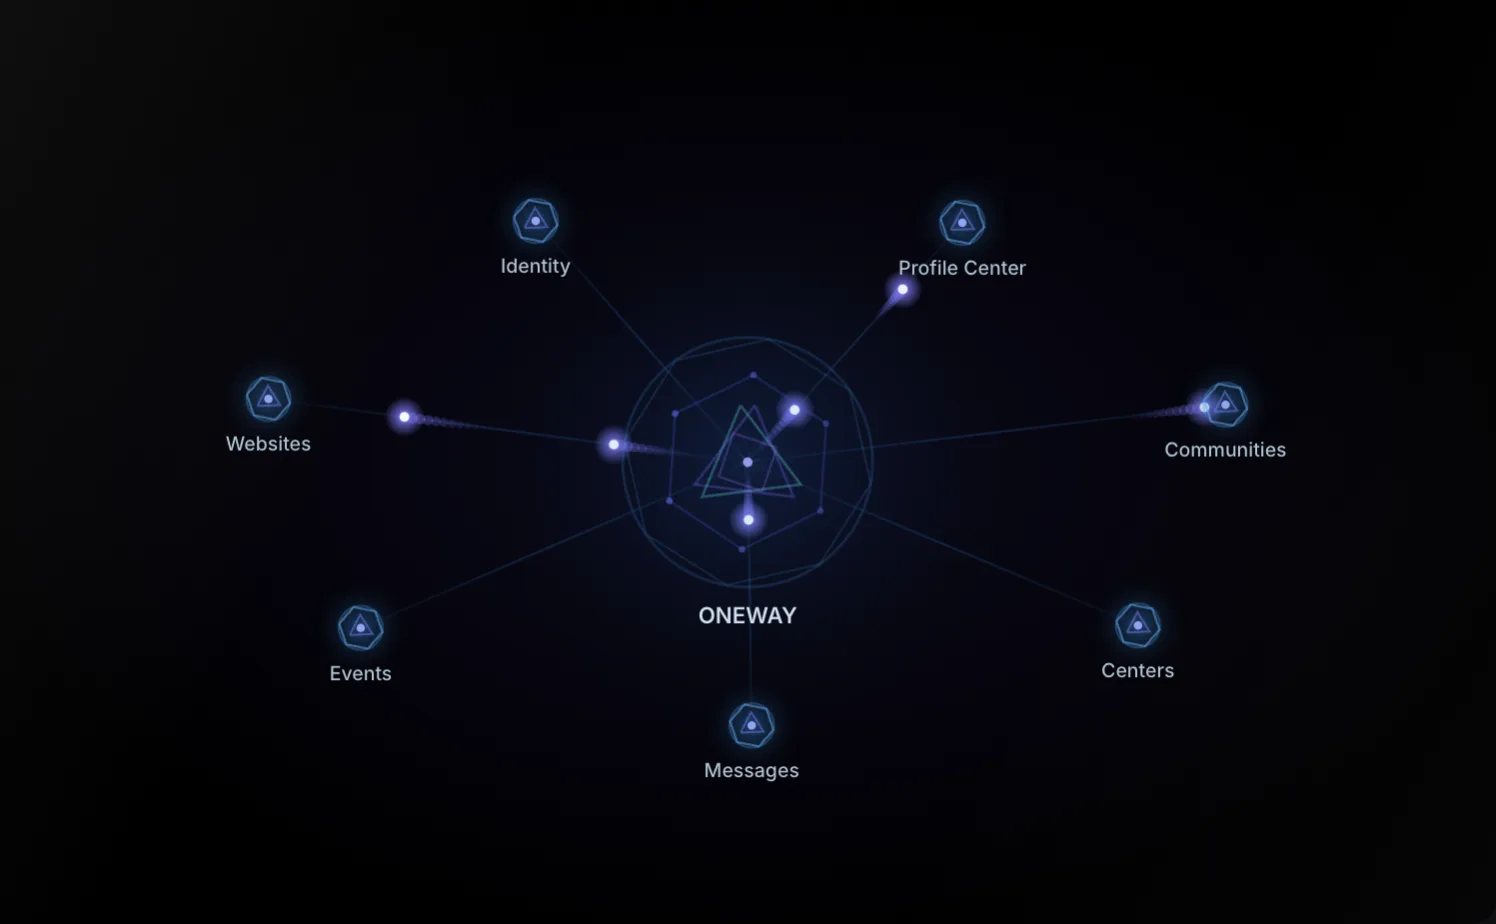
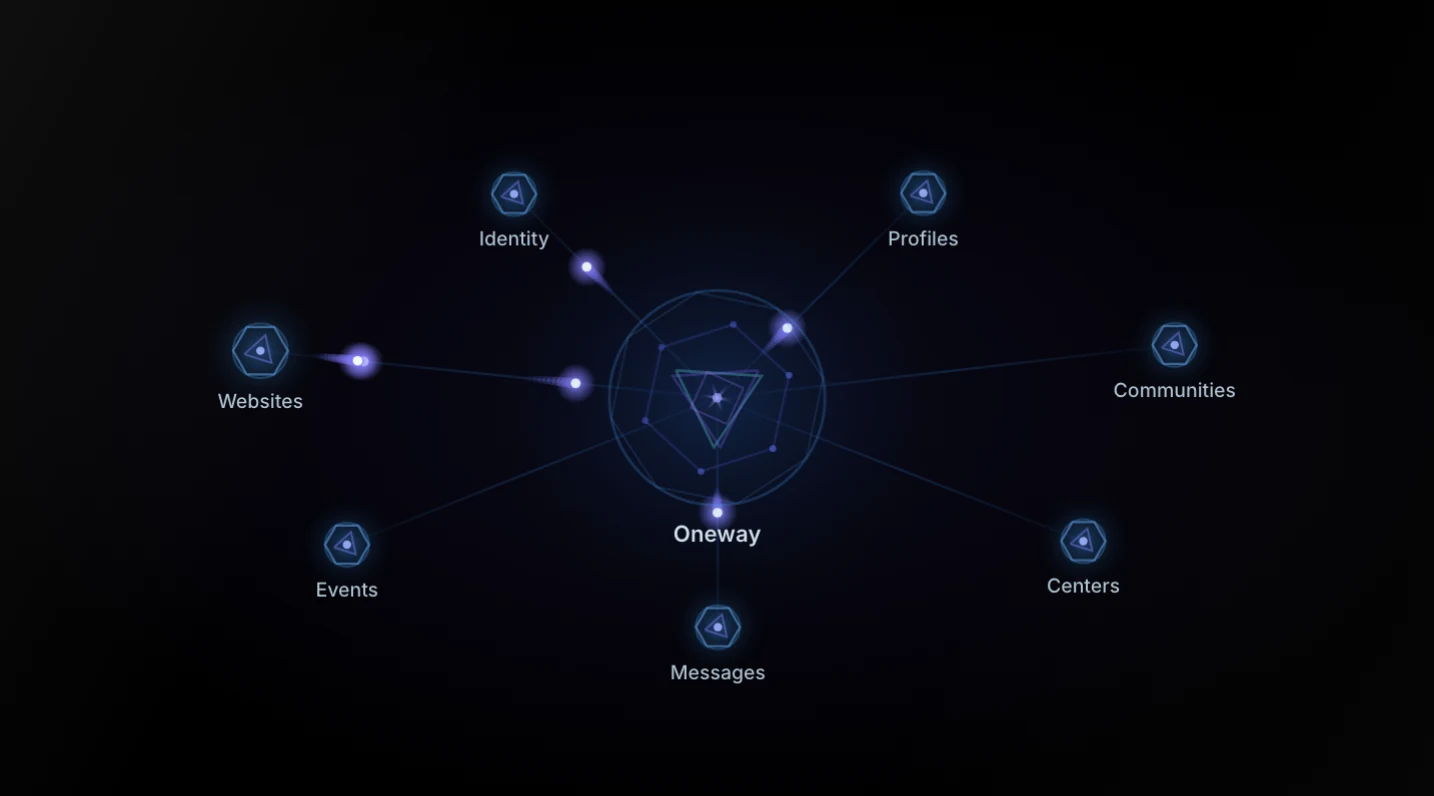
oneway.center from Oneway f34ef234: B's lined-up OS sentence and the Brain saying Profiles, Centers and Oneway (17e29091); the App and OS named at /app and /os

diff --git a/index.html b/index.html
@@ -40,7 +40,7 @@
   <link rel="apple-touch-icon" href="/assets/icons/oneway-globe-180.png">
   <link rel="manifest" href="/site.webmanifest">
   <link rel="author" href="/.well-known/security.txt" title="Security contact">
-  <script type="application/ld+json">{"@context":"https://schema.org","@graph":[{"@type":"Organization","@id":"https://oneway.center/#organization","name":"Oneway","alternateName":["oneway.center","Oneway App","Oneway OS"],"legalName":"Oneway Technologies LLC","url":"https://oneway.center/","logo":{"@type":"ImageObject","@id":"https://oneway.center/#logo","url":"https://oneway.center/app-icon-1024.png","width":1024,"height":1024,"caption":"Oneway"},"image":{"@id":"https://oneway.center/#logo"},"description":"We give every person one profile and every community or business a Center. We grant users and Centers absolute sovereignty over their data, what they display, and how they interact, whether hosting a simple photo gallery or a business's entire website.","email":"williamrau78@gmail.com","contactPoint":{"@type":"ContactPoint","contactType":"customer support","email":"williamrau78@gmail.com","availableLanguage":["en"]},"address":{"@type":"PostalAddress","addressRegion":"NY","addressCountry":"US"},"sameAs":["https://www.instagram.com/oneway.app/","https://www.tiktok.com/@onewayapp"],"owns":[{"@id":"https://oneway.center/#app"},{"@id":"https://oneway.center/#os"}]},{"@type":"WebSite","@id":"https://oneway.center/#website","url":"https://oneway.center/","name":"Oneway","alternateName":["oneway.center"],"inLanguage":"en","publisher":{"@id":"https://oneway.center/#organization"}},{"@type":"WebPage","@id":"https://oneway.center/#webpage","url":"https://oneway.center/","name":"Oneway","headline":"Oneway: your fully customizable social network and OS","description":"Oneway gives every person one profile and every community or business a Center: a fully customizable social network, and Oneway OS to run it.","inLanguage":"en","isPartOf":{"@id":"https://oneway.center/#website"},"about":{"@id":"https://oneway.center/#organization"},"publisher":{"@id":"https://oneway.center/#organization"},"primaryImageOfPage":{"@type":"ImageObject","url":"https://oneway.center/og-card.jpg","width":1200,"height":630,"caption":"Oneway. We give every person one profile and every community or business a Center."},"dateModified":"2026-10-09"},{"@type":"SoftwareApplication","@id":"https://oneway.center/#app","name":"Oneway App","applicationCategory":"SocialNetworkingApplication","operatingSystem":"Web","description":"Your fully customizable social network. See what your friends and the places you love are posting, and what is coming up at each of them.","publisher":{"@id":"https://oneway.center/#organization"},"url":"https://oneway.center/#app"},{"@type":"SoftwareApplication","@id":"https://oneway.center/#os","name":"Oneway OS","applicationCategory":"BusinessApplication","operatingSystem":"Web","description":"From managing online communities, developing custom tools, to running full businesses and zooming in on the operations of specific locations with the click of a button, within seconds.","publisher":{"@id":"https://oneway.center/#organization"},"url":"https://oneway.center/#os"}]}</script>
+  <script type="application/ld+json">{"@context":"https://schema.org","@graph":[{"@type":"Organization","@id":"https://oneway.center/#organization","name":"Oneway","alternateName":["oneway.center","Oneway App","Oneway OS"],"legalName":"Oneway Technologies LLC","url":"https://oneway.center/","logo":{"@type":"ImageObject","@id":"https://oneway.center/#logo","url":"https://oneway.center/app-icon-1024.png","width":1024,"height":1024,"caption":"Oneway"},"image":{"@id":"https://oneway.center/#logo"},"description":"We give every person one profile and every community or business a Center. We grant users and Centers absolute sovereignty over their data, what they display, and how they interact, whether hosting a simple photo gallery or a business's entire website.","email":"williamrau78@gmail.com","contactPoint":{"@type":"ContactPoint","contactType":"customer support","email":"williamrau78@gmail.com","availableLanguage":["en"]},"address":{"@type":"PostalAddress","addressRegion":"NY","addressCountry":"US"},"sameAs":["https://www.instagram.com/oneway.app/","https://www.tiktok.com/@onewayapp"],"owns":[{"@id":"https://oneway.center/#app"},{"@id":"https://oneway.center/#os"}]},{"@type":"WebSite","@id":"https://oneway.center/#website","url":"https://oneway.center/","name":"Oneway","alternateName":["oneway.center"],"inLanguage":"en","publisher":{"@id":"https://oneway.center/#organization"}},{"@type":"WebPage","@id":"https://oneway.center/#webpage","url":"https://oneway.center/","name":"Oneway","headline":"Oneway: your fully customizable social network and OS","description":"Oneway gives every person one profile and every community or business a Center: a fully customizable social network, and Oneway OS to run it.","inLanguage":"en","isPartOf":{"@id":"https://oneway.center/#website"},"about":{"@id":"https://oneway.center/#organization"},"publisher":{"@id":"https://oneway.center/#organization"},"primaryImageOfPage":{"@type":"ImageObject","url":"https://oneway.center/og-card.jpg","width":1200,"height":630,"caption":"Oneway. We give every person one profile and every community or business a Center."},"dateModified":"2026-10-09"},{"@type":"SoftwareApplication","@id":"https://oneway.center/#app","name":"Oneway App","applicationCategory":"SocialNetworkingApplication","operatingSystem":"Web","description":"Your fully customizable social network. See what your friends and the places you love are posting, and what is coming up at each of them.","publisher":{"@id":"https://oneway.center/#organization"},"url":"https://oneway.center/app"},{"@type":"SoftwareApplication","@id":"https://oneway.center/#os","name":"Oneway OS","applicationCategory":"BusinessApplication","operatingSystem":"Web","description":"From managing online communities, developing custom tools, to running full businesses and zooming in on the operations of specific locations with the click of a button, within seconds.","publisher":{"@id":"https://oneway.center/#organization"},"url":"https://oneway.center/os"}]}</script>
   <!-- /SEO -->
   <!-- ═══ MOBILE RENDER SAFE-FLOOR + ON-DEVICE BISECTION (Priority Zero: the
        iPhone Safari renderer crash) ═══════════════════════════════════════
@@ -2074,19 +2074,20 @@ html[data-ow-thread] .ow-thread__foot .ow-props { position: fixed; left: 0px; ri
   @media(prefers-reduced-motion:reduce){.phones .ph-real{animation:none}}
 
   /* ── 6 · THE OS — an all-in-one desktop, the Brain on its screen ────── */
-  /* HIS SENTENCE, LEFT AND RIGHT OF EACH OTHER ABOVE THE SCREEN (the founder, 2026-10-09: "to the left and right of
-     each other above the screen ... should start with to running. find a way to make it flow"). Two columns that read
-     as one line of thought: the left half ends right-aligned against the centre, and the right half starts one line
-     ABOVE where it would otherwise begin, so its first line shares the row with the left half's last ("custom tools,"
-     -> "to running ..."). The eye goes straight across and then down. */
-  .os-flow{--lh:1.34;display:grid;grid-template-columns:minmax(0,.86fr) minmax(0,1.14fr);grid-template-rows:auto auto;
+  /* HIS SENTENCE, LEFT AND RIGHT OF EACH OTHER ABOVE THE SCREEN, LINED UP (the founder, 2026-10-09: "to the left and
+     right of each other above the screen ... should start with to running. find a way to make it flow", then "no line
+     them up that looks misspaced"). Two columns, top-aligned, the left half ending right-aligned against the centre and
+     the right half starting at the same top line. The column widths follow the two halves' lengths, so both run the
+     same number of lines and start and end together where they were measured (390, 430, 1280 and 1440 px); at the
+     widths between, the script after the Brain moves the split until the line counts match. */
+  .os-flow{--lh:1.34;display:grid;grid-template-columns:minmax(0,.86fr) minmax(0,1.14fr);align-items:start;
     column-gap:clamp(12px,2.2vw,28px);max-width:860px;margin:26px auto 0;text-align:left;
     font-size:clamp(17px,2.15vw,26px);line-height:var(--lh);font-weight:650;color:#fff;letter-spacing:-.012em}
   .os-flow p{margin:0;text-wrap:balance}
-  /* a phone: the left half a little wider, so it reads in three full lines rather than five short ones */
-  @media (max-width:640px){ .os-flow{grid-template-columns:minmax(0,1.05fr) minmax(0,.95fr);font-size:16px} }
-  .os-flow__a{grid-column:1;grid-row:1;text-align:right}
-  .os-flow__b{grid-column:2;grid-row:2;margin-top:calc(-1em * var(--lh))!important}
+  /* a phone: widths that give both halves the same five lines (measured at 390 px) */
+  @media (max-width:640px){ .os-flow{grid-template-columns:minmax(0,.78fr) minmax(0,1.22fr);font-size:16px} }
+  .os-flow__a{grid-column:1;text-align:right}
+  .os-flow__b{grid-column:2;text-align:left}
   .footer-tm{max-width:1080px;margin:18px auto 0;padding:0 clamp(20px,5vw,48px);font-size:11.5px;line-height:1.5;color:rgba(255,255,255,.5)}
   /* A REAL iMac (the founder, 2026-10-09: "have the computer reflect the real mold of an apple imac, not a random ai
      generated computer model"). The Silver iMac (M4, 2024), photographed by AzureSaturn and released CC0 on Wikimedia
@@ -2200,8 +2201,8 @@ html[data-ow-thread] .ow-thread__foot .ow-props { position: fixed; left: 0px; ri
   <div class="lp-wrap" style="text-align:center">
     <div class="lk rv d2"><img style="aspect-ratio:400/86" src="logo-white.png" srcset="logo-white@2x.png 2x" alt="Oneway"/><span>OS</span></div>
     <h2 class="lp-h2 rv d2" style="margin:0 auto;max-width:17ch">See how deep it&nbsp;goes.</h2>
-    <!-- HIS SENTENCE, LEFT AND RIGHT ABOVE THE SCREEN, AND IT FLOWS: the right half starts on the line where the left
-         half ends, so "custom tools," runs straight across into "to running ..." -->
+    <!-- HIS SENTENCE, LEFT AND RIGHT ABOVE THE SCREEN, LINED UP: both halves start on the same row and end on the same
+         row ("no line them up that looks misspaced"); the script after the Brain keeps it so at every width -->
     <div class="os-flow rv d2">
       <p class="os-flow__a">From managing online communities, developing custom&nbsp;tools,</p>
       <p class="os-flow__b">to running full businesses and zooming in on the operations of specific locations with the click of a button, within&nbsp;seconds.</p>
@@ -2220,7 +2221,7 @@ html[data-ow-thread] .ow-thread__foot .ow-props { position: fixed; left: 0px; ri
               <i><svg viewBox="0 0 24 24"><circle cx="12" cy="12" r="3"/><path d="M19.4 15a1.7 1.7 0 0 0 .3 1.8l.1.1a2 2 0 1 1-2.8 2.8l-.1-.1a1.7 1.7 0 0 0-1.8-.3 1.7 1.7 0 0 0-1 1.5V21a2 2 0 1 1-4 0v-.1a1.7 1.7 0 0 0-1.1-1.5 1.7 1.7 0 0 0-1.8.3l-.1.1a2 2 0 1 1-2.8-2.8l.1-.1a1.7 1.7 0 0 0 .3-1.8 1.7 1.7 0 0 0-1.5-1H3a2 2 0 1 1 0-4h.1a1.7 1.7 0 0 0 1.5-1.1 1.7 1.7 0 0 0-.3-1.8l-.1-.1a2 2 0 1 1 2.8-2.8l.1.1a1.7 1.7 0 0 0 1.8.3H9a1.7 1.7 0 0 0 1-1.5V3a2 2 0 1 1 4 0v.1a1.7 1.7 0 0 0 1 1.5 1.7 1.7 0 0 0 1.8-.3l.1-.1a2 2 0 1 1 2.8 2.8l-.1.1a1.7 1.7 0 0 0-.3 1.8V9a1.7 1.7 0 0 0 1.5 1H21a2 2 0 1 1 0 4h-.1a1.7 1.7 0 0 0-1.5 1z"/></svg></i>
             </div>
             <div class="aio-brain" id="aioBrain">
-              <img style="aspect-ratio:1496/924" class="still" src="/frontend/site/os-brain.webp" alt="" aria-hidden="true" loading="lazy" decoding="async"/>
+              <img style="aspect-ratio:1434/796" class="still" src="/frontend/site/os-brain.webp" alt="" aria-hidden="true" loading="lazy" decoding="async"/>
               <canvas id="ow-map" aria-hidden="true"></canvas>
             </div>
           </div>
@@ -2265,11 +2266,12 @@ html[data-ow-thread] .ow-thread__foot .ow-props { position: fixed; left: 0px; ri
   </div>
 </section>
 
-<script defer src="/frontend/shared/brainmap.js?v=fbe668b4"></script>
+<script defer src="/frontend/shared/brainmap.js?v=9c3fa9cb"></script>
 <script defer src="/frontend/landing/static/inline-03-da8892856b.js"></script>
-<script defer src="/frontend/landing/static/inline-04-b8bd236ef4.js"></script>
-<script defer src="/frontend/landing/static/inline-05-c7bf297b15.js"></script>
-<script defer src="/frontend/landing/static/inline-06-ced288bedf.js"></script>
+<script defer src="/frontend/landing/static/inline-04-a503692068.js"></script>
+<script defer src="/frontend/landing/static/inline-05-b8bd236ef4.js"></script>
+<script defer src="/frontend/landing/static/inline-06-c7bf297b15.js"></script>
+<script defer src="/frontend/landing/static/inline-07-ced288bedf.js"></script>
 
 <footer>
   <div class="footer-inner">
@@ -2290,7 +2292,7 @@ html[data-ow-thread] .ow-thread__foot .ow-props { position: fixed; left: 0px; ri
        association with Apple is claimed or suggested -->
   <p class="footer-tm">iMac is a trademark of Apple Inc., registered in the U.S. and other countries and regions. Oneway is not affiliated with Apple.</p>
 </footer>
-<script defer src="/frontend/landing/static/inline-07-52d0f7bae6.js"></script>
+<script defer src="/frontend/landing/static/inline-08-52d0f7bae6.js"></script>
 
 
 
@@ -2332,7 +2334,7 @@ html[data-ow-thread] .ow-thread__foot .ow-props { position: fixed; left: 0px; ri
     letter-spacing:0!important;font-size:13px!important;font-weight:500!important}
 
 </style>
-<script defer src="/frontend/landing/static/inline-08-298e53feb7.js"></script>
+<script defer src="/frontend/landing/static/inline-09-298e53feb7.js"></script>
 
 
 

diff --git a/frontend/landing/static/inline-04-a503692068.js b/frontend/landing/static/inline-04-a503692068.js
@@ -1,0 +1,36 @@
+
+/* HIS OS SENTENCE, LINED UP AT EVERY WIDTH (the founder, 2026-10-09: "no line them up that looks misspaced"). The
+   stylesheet's column widths line the two halves up where they were measured; between those widths the halves wrap
+   to different line counts and end on different rows (measured: 6 and 7 lines at 320 px, 2 and 3 at 768 and 1024).
+   So the split between the columns moves until both halves run the same number of lines: the fewest both can share,
+   from the middle of the range of splits that give it. Without script the stylesheet's widths stand. */
+(function(){
+  var box=document.querySelector('.os-flow'); if(!box) return;
+  var a=box.querySelector('.os-flow__a'), b=box.querySelector('.os-flow__b'); if(!a || !b) return;
+  function lines(el){
+    var r=document.createRange(); r.selectNodeContents(el);
+    var rs=r.getClientRects(), seen={}, n=0;
+    for(var i=0;i<rs.length;i++){ var t=Math.round(rs[i].top); if(!seen[t]){ seen[t]=1; n++; } }
+    return n;
+  }
+  function split(f){ box.style.gridTemplateColumns='minmax(0,'+f.toFixed(2)+'fr) minmax(0,'+(2-f).toFixed(2)+'fr)'; }
+  var laidAt='';
+  function lay(){
+    // the box stops growing at its max width while the type still scales with the window, so both are the key
+    var w=box.clientWidth; if(!w) return;
+    var key=w+'/'+getComputedStyle(box).fontSize; if(key===laidAt) return; laidAt=key;
+    box.style.gridTemplateColumns='';
+    if(lines(a)===lines(b)) return;
+    var fits=[], fewest=Infinity;
+    for(var k=0;k<=50;k++){
+      var f=0.5+k*0.02; split(f);
+      var n=lines(a); if(n!==lines(b)) continue;
+      if(n<fewest){ fewest=n; fits=[]; }
+      if(n===fewest) fits.push(f);
+    }
+    if(fits.length) split(fits[fits.length>>1]); else box.style.gridTemplateColumns='';
+  }
+  lay();
+  if(document.fonts && document.fonts.ready) document.fonts.ready.then(function(){ laidAt=''; lay(); });
+  addEventListener('resize', function(){ requestAnimationFrame(lay); }, {passive:true});
+})();

diff --git a/os.html b/os.html
@@ -513,7 +513,7 @@
   }());
   (function(){const n=document.getElementById('nav');const s=()=>n.classList.toggle('scrolled',scrollY>20);addEventListener('scroll',s,{passive:true});s();}());
   </script>
-  <script src="/frontend/shared/brainmap.js?v=fbe668b4"></script>
+  <script src="/frontend/shared/brainmap.js?v=9c3fa9cb"></script>
   <script>
     (function(){
       try{ var c=document.getElementById('os-brain');

diff --git a/frontend/shared/brainmap.js b/frontend/shared/brainmap.js
@@ -455,7 +455,7 @@
   }
 
   function presetOneway(){
-    return { label: 'ONEWAY', systems: [
+    return { label: 'Oneway', systems: [
       { label: 'Profiles' }, { label: 'Communities' }, { label: 'Centers' },
       { label: 'Messages' }, { label: 'Events' }, { label: 'Websites' }, { label: 'Identity' }
     ] };
